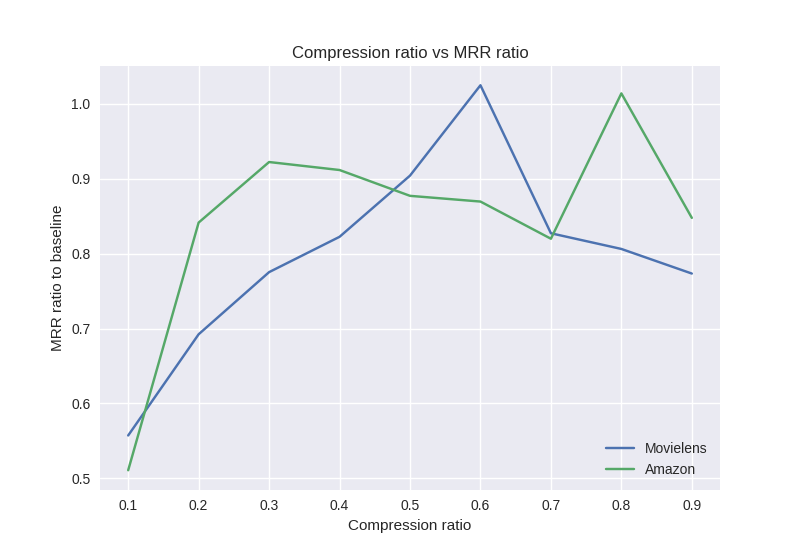
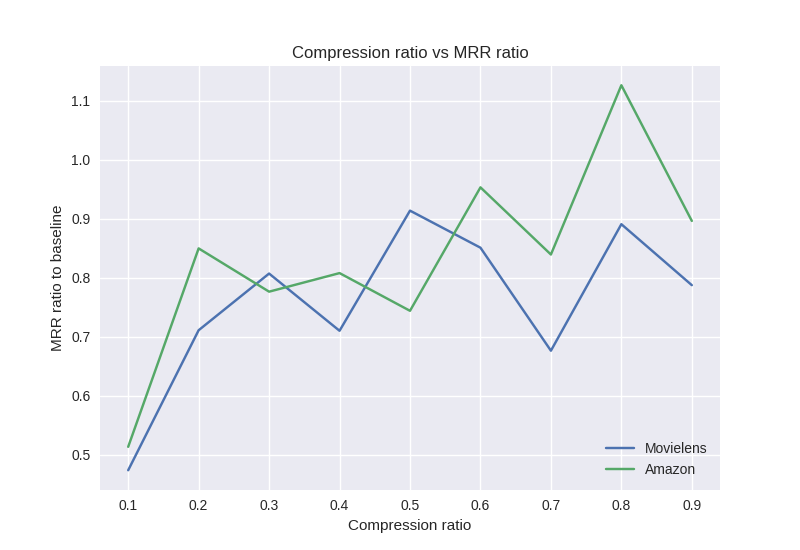
Sum pooling results.

diff --git a/examples/bloom_embeddings/readme.rst b/examples/bloom_embeddings/readme.rst
@@ -56,7 +56,7 @@ The first plot shows the relationship between the compression ratio and fitting 
 
 |
 
-What about accuracy? At 4 hash functions, a lot of compression can be applied with modest performance losses. As expected, the denser Movielens dataset is less compressible, losing more accuracy at high levels of compression. For both datasets, it appears that there are compression levels which perform better than no compression. It's possible that this is due to a regularization effect; it's also possible that in this limited experiment the signal strength is swamped by differences stemming from indeterministic floating point operations and differences in initialization.
+What about accuracy? At 4 hash functions, a lot of compression can be applied with modest performance losses. As expected, the denser Movielens dataset is less compressible, losing more accuracy at high levels of compression. For the Amazon datasets, it appears that there are compression levels which perform better than no compression. It's possible that this is due to a regularization effect; it's also possible that in this limited experiment the signal strength is swamped by differences stemming from indeterministic floating point operations and differences in initialization.
 
 Conclusions
 -----------
